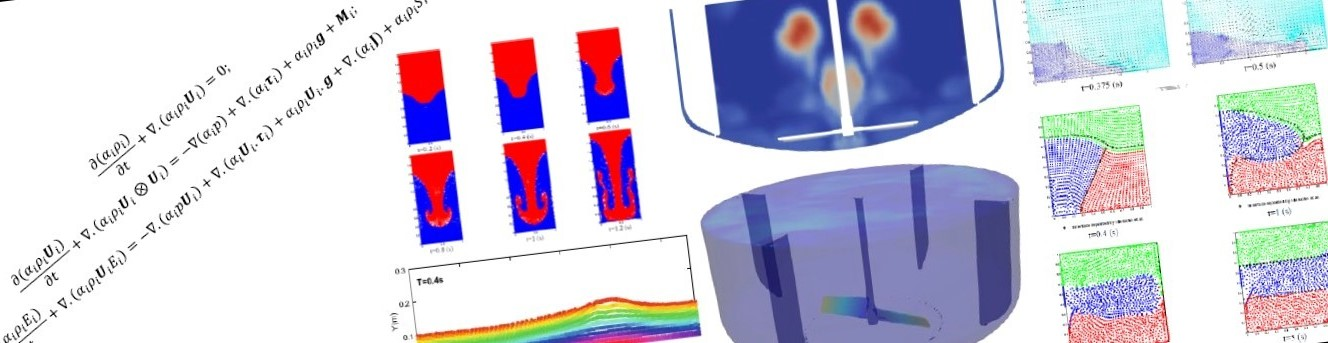
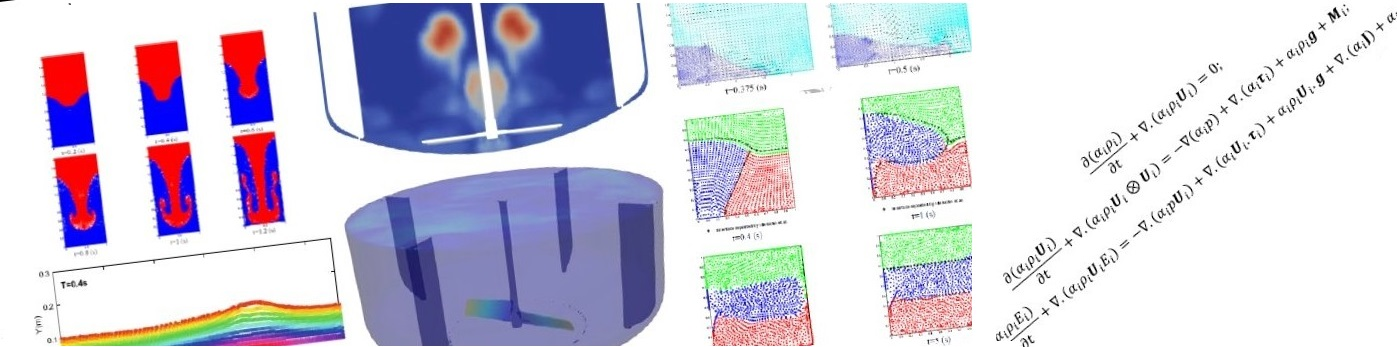
revise home top page imgae

diff --git a/publication.html b/publication.html
@@ -46,10 +46,10 @@
 
     <section class="publication-section container">
         <h2 class="text-center mb-4">Selected Publications</h2>
-
         <div id="publication-container"></div>
     </section>
 
+    <!-- ✅ Updated script starts here -->
     <script>
         const dois = [
             "https://doi.org/10.1007/s00366-025-02140-0",
@@ -69,10 +69,24 @@
 
         const container = document.getElementById("publication-container");
 
-        dois.forEach((doi, index) => {
-            fetch(`https://api.crossref.org/works/${doi}`)
-                .then(response => response.json())
-                .then(data => {
+        // ✅ Fetch all publication data and preserve order
+        Promise.all(
+            dois.map((doi) =>
+                fetch(`https://api.crossref.org/works/${doi}`)
+                    .then(response => response.json())
+                    .catch(error => ({ error, doi })) // ⬅ catch and wrap errors with DOI
+            )
+        ).then(results => {
+            results.forEach((data, index) => {
+                if (data.error) {
+                    // ⛔ Show an error if a publication failed to load
+                    const errorRow = document.createElement("div");
+                    errorRow.className = "publication-row text-danger";
+                    errorRow.innerHTML = `<p>❌ Failed to load publication for DOI: ${data.doi}</p>`;
+                    container.appendChild(errorRow);
+                    console.error(data.error);
+                } else {
+                    // ✅ Show publication data as usual
                     const item = data.message;
                     const year = item.published['date-parts'][0][0];
                     const title = item.title[0];
@@ -86,7 +100,7 @@
                     paperDiv.className = "paper";
                     paperDiv.innerHTML = `
                         <p>${authors} (${year}). <em>${title}</em>. <strong>${journal}</strong>.
-                        <a href="https://doi.org/${doi}" target="_blank">DOI</a></p>
+                        <a href="https://doi.org/${dois[index]}" target="_blank">DOI</a></p>
                     `;
 
                     const imageDiv = document.createElement("div");
@@ -96,16 +110,11 @@
                     row.appendChild(paperDiv);
                     row.appendChild(imageDiv);
                     container.appendChild(row);
-                })
-                .catch(error => {
-                    const errorRow = document.createElement("div");
-                    errorRow.className = "publication-row text-danger";
-                    errorRow.innerHTML = `<p>Failed to load publication for DOI: ${doi}</p>`;
-                    container.appendChild(errorRow);
-                    console.error(error);
-                });
+                }
+            });
         });
     </script>
+    <!-- ✅ Updated script ends here -->
 
     <script src="https://cdn.jsdelivr.net/npm/bootstrap@5.3.0/dist/js/bootstrap.bundle.min.js"></script>
 </body>

diff --git a/css/vendor.css b/css/vendor.css
@@ -38,17 +38,36 @@
 .saeb-jarallax {
   position: relative;
   z-index: 0;
-  min-height: 200px;
+  min-height: 25px;
+  max-height: 50px; /* Limit the overall section height */
+  overflow: hidden;   /* Hide any overflow from large image */
 }
 .saeb-jarallax > .saeb-jarallax-img {
   position: absolute;
-  object-fit: top;  /*cover;*/
-  top: 1;
+  object-fit: cover;  /* top; */
+  top: 0;
   left: 0;
-  width: 50%;
-  height: 50%;
+  width: 100%;
+  height: 100%;
   z-index: 0;
+} 
+
+
+
+/* 
+.saeb-jarallax {
+    position: relative;
+    height: 50px; 
 }
+.saeb-jarallax-img {
+position: absolute;
+top: 0;
+left: 0;
+width: 100%;
+height: 50%; 
+object-fit: cover;
+} 
+*/
 
 
 .jarallax-keep-img {
